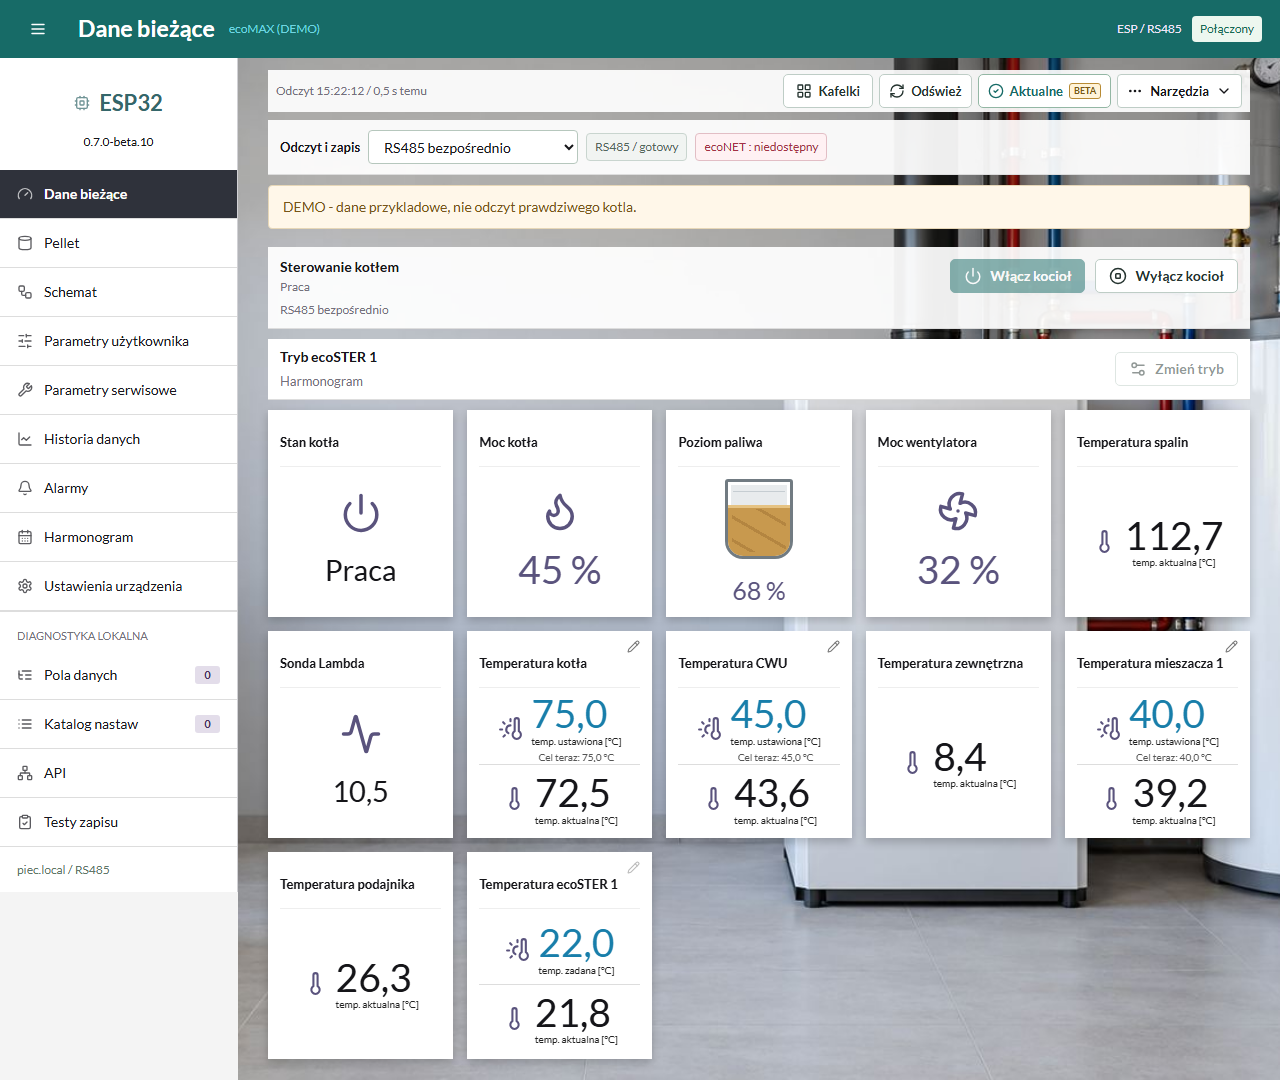
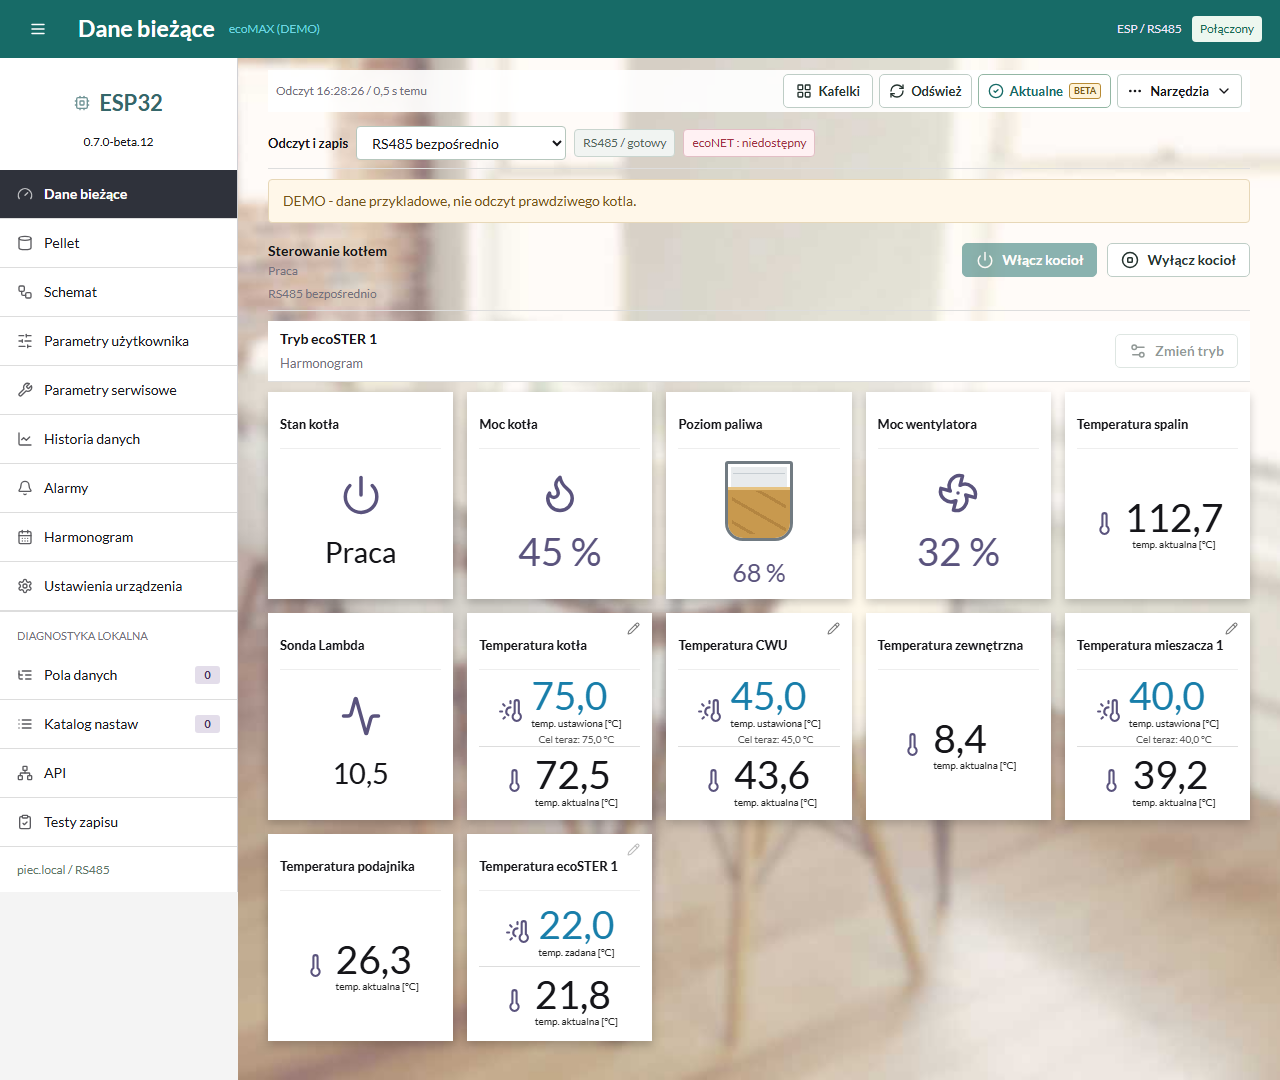
Restore previous schematic and background without redesign in beta.12

diff --git a/src/panel_web/heating_schema.js b/src/panel_web/heating_schema.js
@@ -1,36 +1,50 @@
 'use strict';
 (function(root){
- const value=(v,unit='\u00b0C')=>typeof v==='number'&&Number.isFinite(v)?v.toLocaleString('pl-PL',{minimumFractionDigits:unit==='%'?0:1,maximumFractionDigits:1})+' '+unit:'---';
- function readings(data,fresh){
-  const c=fresh?data.curr||{}:{};
-  return {outside:value(c.tempExternalSensor),room:value(c.ecoSterTemp1),roomSet:value(c.ecoSterSetTemp1),
-   co:value(c.tempCO),coSet:value(c.tempCOSet),water:value(c.tempCWU),waterSet:value(c.tempCWUSet),
-   mixer:value(c.mixerTemp1),mixerSet:value(c.mixerSetTemp1),exhaust:value(c.tempFlueGas),back:value(c.tempBack),
-   power:typeof c.boilerPowerKW==='number'?value(c.boilerPowerKW,'kW'):value(c.boilerPower,'%'),fuel:value(typeof c.fuelLevel==='number'&&c.fuelLevel>=0&&c.fuelLevel<=100?c.fuelLevel:null,'%'),fan:value(c.fanPower,'%'),
-   mode:fresh?EcoSettings.boilerModeLabel(c.mode,data.write_transport):'Brak odczytu'};
- }
+ const value=(v,unit='\u00b0C')=>typeof v==='number'&&Number.isFinite(v)?v.toLocaleString('pl-PL',{minimumFractionDigits:unit==='%'?0:1,maximumFractionDigits:1})+(unit?' '+unit:''):'---';
  if(typeof module==='object'&&module.exports)module.exports={value};
  if(typeof document==='undefined')return;
  let loading=null,svg=null,latest=null,retryAfter=0;
  function update(){
   if(!svg||!latest)return;
-  const {data,fresh}=latest,c=fresh?data.curr||{}:{},values=readings(data,fresh);
-  for(const node of svg.querySelectorAll('[data-value]'))node.textContent=values[node.dataset.value]||'---';
-  for(const node of svg.querySelectorAll('[data-pump]')){const active=c[node.dataset.pump];node.dataset.state=typeof active==='boolean'?(active?'on':'off'):'unknown';node.querySelector('[data-pump-label]').textContent=typeof active==='boolean'?(active?'Praca':'Post\u00f3j'):'---';}
-  document.getElementById('schema-readings').textContent=Number(data.system?.schemaID)===23?'Kocio\u0142, obieg mieszacza 1 i zasobnik CWU. Temperatury zadane to aktualne cele sterownika.':'Widok og\u00f3lny: kocio\u0142, mieszacz 1 i CWU. Nie potwierdza rzeczywistych po\u0142\u0105cze\u0144 ani wyposa\u017cenia tej instalacji.';
+  const {data,fresh}=latest,c=fresh?data.curr||{}:{};
+  const set=(id,text)=>{const node=svg.querySelector('#lbSchema_'+id);if(node)node.textContent=text;};
+  set('model',data.system?.controllerID||'---');
+  set('mode',fresh?EcoSettings.boilerModeLabel(c.mode,data.write_transport):'---');
+  for(const [id,key]of [['tempExternalSensor','tempExternalSensor'],['ecoSterTemp1','ecoSterTemp1'],['tempFlueGas','tempFlueGas'],['tempCO','tempCO'],['tempCOSet','tempCOSet'],['tempBack','tempBack'],['tempCWU','tempCWU'],['tempCWUSet','tempCWUSet'],['mixerTempA','mixerTemp1'],['mixerTempASet','mixerSetTemp1']])set(id,value(c[key]));
+  for(const [id,key,unit]of [['fuelLevel','fuelLevel','%'],['fuelStream','fuelStream','kg/h'],['fanPower','fanPower','%'],['tempOpticalSensor','tempOpticalSensor','']])set(id,value(c[key],unit));
+  set('boilerPowerKW',typeof c.boilerPowerKW==='number'?value(c.boilerPowerKW,'kW'):value(c.boilerPower,'%'));
+  set('mixerALabel','MIX1');
+  for(const [id,key]of [['schema_pumpMixerA','mixerPumpWorks1'],['schema_pumpCWU','pumpCWUWorks']]){
+   const node=svg.querySelector('#'+id);if(!node)continue;
+   const active=c[key],color=typeof active==='boolean'?(active?'#28864a':'#333333'):'#999999';
+   node.dataset.state=typeof active==='boolean'?(active?'on':'off'):'unknown';
+   for(const path of node.querySelectorAll('path,circle,polygon')){
+    if(path.getAttribute('stroke')&&path.getAttribute('stroke')!=='none')path.setAttribute('stroke',color);
+    if(path.getAttribute('fill')&&path.getAttribute('fill')!=='none')path.setAttribute('fill',color);
+   }
+   node.setAttribute('aria-label',typeof active==='boolean'?(active?'ON':'OFF'):'Brak odczytu');
+  }
+  const container=document.getElementById('schema-readings');container.replaceChildren();
+  for(const [name,key]of [['Kocio\u0142','tempCO'],['CWU','tempCWU'],['Mieszacz 1','mixerTemp1'],['Pomieszczenie','ecoSterTemp1']]){
+   const box=document.createElement('div'),label=document.createElement('span'),reading=document.createElement('strong');
+   label.textContent=name;reading.textContent=value(c[key]);box.append(label,reading);container.append(box);
+  }
  }
  async function render(data,fresh){
-  latest={data,fresh};const host=document.getElementById('schema-graphic');
-  host.setAttribute('role','group');host.hidden=false;
+  latest={data,fresh};const host=document.getElementById('schema-graphic'),readings=document.getElementById('schema-readings');
+  host.setAttribute('role','group');
+  if(Number(data.system?.schemaID)!==23){host.hidden=true;readings.textContent='Brak schematu dla tej konfiguracji';return;}
+  host.hidden=false;
   if(svg){update();return;}
   if(loading||Date.now()<retryAfter)return;
   host.textContent='Wczytywanie schematu...';
   loading=(async()=>{
    try{
-    const response=await fetch('/assets/heating-schema.svg',{cache:'force-cache'});if(!response.ok)throw new Error('HTTP '+response.status);
+    const response=await fetch('/assets/schema.svg',{cache:'force-cache'});if(!response.ok)throw new Error('HTTP '+response.status);
     const parsed=new DOMParser().parseFromString(await response.text(),'image/svg+xml');
     if(parsed.querySelector('parsererror')||parsed.documentElement.localName!=='svg')throw new Error('Niepoprawna grafika');
-    svg=document.importNode(parsed.documentElement,true);host.replaceChildren(svg);update();
+    svg=document.importNode(parsed.documentElement,true);host.replaceChildren(svg);
+    if(Number(latest.data.system?.schemaID)===23)update();
    }catch(error){retryAfter=Date.now()+30000;host.textContent='Nie uda\u0142o si\u0119 wczyta\u0107 schematu: '+error.message;}
    finally{loading=null;}
   })();

diff --git a/src/panel_web/index.html b/src/panel_web/index.html
@@ -3,7 +3,7 @@
 <body>
 <link rel="stylesheet" href="/transport.css"><link rel="stylesheet" href="/compact.css">
 <header><button id="nav-toggle" class="icon" title="Menu" aria-label="Menu" aria-expanded="true" aria-controls="main-nav"><i data-lucide="menu"></i></button><div class="brand"><h1 id="screen-name">Dane bie&#380;&#261;ce</h1><span id="model">Sterownik</span></div><div class="connection"><span id="local-mark" class="local-mark">ESP / RS485</span><span id="connection" class="status neutral">Niepo&#322;&#261;czony</span></div></header>
-<div class="layout"><nav id="main-nav" aria-label="Widoki"><div class="nav-brand"><div id="nav-econet" class="esp-brand" aria-label="ecoNET"><i data-lucide="router"></i><strong>ecoNET</strong></div><div id="nav-esp" class="esp-brand" hidden aria-label="ESP32"><i data-lucide="cpu"></i><strong>ESP32</strong></div><span id="version">0.7.0-beta.11</span></div>
+<div class="layout"><nav id="main-nav" aria-label="Widoki"><div class="nav-brand"><div id="nav-econet" class="esp-brand" aria-label="ecoNET"><i data-lucide="router"></i><strong>ecoNET</strong></div><div id="nav-esp" class="esp-brand" hidden aria-label="ESP32"><i data-lucide="cpu"></i><strong>ESP32</strong></div><span id="version">0.7.0-beta.12</span></div>
 <button class="active" data-view="live"><i data-lucide="gauge"></i><span>Dane bie&#380;&#261;ce</span></button><button data-view="pellet"><i data-lucide="cylinder"></i><span>Pellet</span></button><button data-view="schema"><i data-lucide="workflow"></i><span>Schemat</span></button><button data-view="user"><i data-lucide="sliders-horizontal"></i><span>Parametry u&#380;ytkownika</span></button><button data-view="service"><i data-lucide="wrench"></i><span>Parametry serwisowe</span></button><button data-view="history"><i data-lucide="chart-line"></i><span>Historia danych</span></button><button data-view="alarms"><i data-lucide="bell"></i><span>Alarmy</span><b id="alarm-count" class="alarm-count" role="status" hidden></b></button><button data-view="schedule"><i data-lucide="calendar-days"></i><span>Harmonogram</span></button><button data-view="settings"><i data-lucide="settings"></i><span>Ustawienia urz&#261;dzenia</span></button><div class="nav-tools">Diagnostyka lokalna</div><button data-view="data"><i data-lucide="list-tree"></i><span>Pola danych</span><b id="count-fields">0</b></button><button data-view="menu"><i data-lucide="list"></i><span>Katalog nastaw</span><b id="count-menu">0</b></button><button data-view="api"><i data-lucide="network"></i><span>API</span></button><button data-view="tests"><i data-lucide="clipboard-check"></i><span>Testy zapisu</span></button><div class="rail-foot"><div id="address">piec.local</div></div></nav>
 <main>
 

diff --git a/docs/GALERIA.html b/docs/GALERIA.html
@@ -6,7 +6,7 @@
 <style>
 *{box-sizing:border-box}body{margin:0;background:#fff;color:#243138;font:16px/1.65 system-ui,"Segoe UI",Arial,sans-serif;letter-spacing:0}header{border-bottom:1px solid #d7e1e3;padding:16px 24px}header nav{max-width:960px;margin:auto;display:flex;flex-wrap:wrap;gap:20px}main{max-width:960px;margin:auto;padding:24px}h1{font-size:30px;line-height:1.25}h2{font-size:23px;line-height:1.35;margin-top:40px;padding-top:18px;border-top:1px solid #dce6e7}p,li{overflow-wrap:anywhere}a{color:#176a85}img{display:block;max-width:100%;height:auto;margin:22px auto;border:1px solid #d8e1e3;border-radius:4px}table{width:100%;border-collapse:collapse;margin:20px 0;font-size:14px}th,td{border:1px solid #ccd9dc;padding:10px;text-align:left;vertical-align:top;overflow-wrap:anywhere}th{background:#eef6f4}pre{white-space:pre-wrap;overflow-wrap:anywhere}em{font-size:14px;color:#546970}strong{font-weight:700}@media(max-width:600px){main{padding:18px}header{padding:16px 18px}h1{font-size:26px}h2{font-size:21px}th,td{padding:7px;font-size:13px}}@media print{header{display:none}main{max-width:none;padding:0}h2{break-after:avoid}img{max-height:18cm;object-fit:contain}tr{break-inside:avoid}a{color:inherit}body{font-size:11pt}}
 </style></head><body><header><nav><a href="https://marexcodemaster.github.io/ecomax-esp32-gateway/">Instalator USB</a><a href="https://github.com/MareXcodemaster/ecomax-esp32-gateway/releases">Pliki do pobrania</a></nav></header><main><h1>Jak Wyglada Panel ecoMAX Wi-Fi</h1>
-<p>Zrzuty rzeczywistego interfejsu wersji <strong>0.7.0-beta.10</strong>, uruchomionego
+<p>Zrzuty rzeczywistego interfejsu wersji <strong>0.7.0-beta.12</strong>, uruchomionego
 lokalnie z <strong>danymi przykladowymi (DEMO)</strong>. Nie jest to potwierdzenie
 obslugi kazdej nastawy w dowolnym kotle.
 Kliknij zdjecie, aby je powiekszyc w GitHubie.</p>

diff --git a/docs/SZYBKI_START.html b/docs/SZYBKI_START.html
@@ -6,7 +6,7 @@
 <style>
 *{box-sizing:border-box}body{margin:0;background:#fff;color:#243138;font:16px/1.65 system-ui,"Segoe UI",Arial,sans-serif;letter-spacing:0}header{border-bottom:1px solid #d7e1e3;padding:16px 24px}header nav{max-width:960px;margin:auto;display:flex;flex-wrap:wrap;gap:20px}main{max-width:960px;margin:auto;padding:24px}h1{font-size:30px;line-height:1.25}h2{font-size:23px;line-height:1.35;margin-top:40px;padding-top:18px;border-top:1px solid #dce6e7}p,li{overflow-wrap:anywhere}a{color:#176a85}img{display:block;max-width:100%;height:auto;margin:22px auto;border:1px solid #d8e1e3;border-radius:4px}table{width:100%;border-collapse:collapse;margin:20px 0;font-size:14px}th,td{border:1px solid #ccd9dc;padding:10px;text-align:left;vertical-align:top;overflow-wrap:anywhere}th{background:#eef6f4}pre{white-space:pre-wrap;overflow-wrap:anywhere}em{font-size:14px;color:#546970}strong{font-weight:700}@media(max-width:600px){main{padding:18px}header{padding:16px 18px}h1{font-size:26px}h2{font-size:21px}th,td{padding:7px;font-size:13px}}@media print{header{display:none}main{max-width:none;padding:0}h2{break-after:avoid}img{max-height:18cm;object-fit:contain}tr{break-inside:avoid}a{color:inherit}body{font-size:11pt}}
 </style></head><body><header><nav><a href="https://marexcodemaster.github.io/ecomax-esp32-gateway/">Instalator USB</a><a href="https://github.com/MareXcodemaster/ecomax-esp32-gateway/releases">Pliki do pobrania</a></nav></header><main><h1>ecoMAX Wi-Fi: Prosta Instrukcja Instalacji</h1>
-<p><strong>Wersja programu 0.7.0-beta.11. Instrukcja 6, 17.10.2026.</strong>
+<p><strong>Wersja programu 0.7.0-beta.12. Instrukcja 7, 17.10.2026.</strong>
 Nie musisz programowac ani wpisywac komend. Komputer jest potrzebny
 tylko przy pierwszym wgraniu; pozniej korzystasz z telefonu.</p>
 <h2>1. Sprawdz, Czy To Zestaw Dla Ciebie</h2>

diff --git a/src/panel_web/schema.css b/src/panel_web/schema.css
@@ -1,10 +1,7 @@
-.schema-graphic{overflow-x:auto;background:#fff;scrollbar-gutter:stable}
-.schema-graphic>svg{display:block;width:100%;min-width:720px;height:auto;aspect-ratio:1000/680;min-height:0}
-#schema-readings{display:block;font-size:13px;color:#50605c;line-height:1.6;padding:14px 0}
+.schema-graphic{overflow-x:auto;scrollbar-gutter:stable}
+.schema-graphic>svg{display:block;width:100%;min-width:720px;height:auto;aspect-ratio:841.66/437.104;min-height:0}
+.schema-graphic[hidden]{display:none}
 #wifi-dialog{width:480px}#wifi-title{font-size:19px}#wifi-select{width:100%}
 #wifi-form>.check{margin:12px 0}#wifi-form>p{font-size:13px;line-height:1.6;overflow-wrap:anywhere}
 #wifi-result{min-height:22px}#wifi-form [hidden]{display:none}
-body[data-view=live] main,body[data-view=schema] main{background:#f1f4f2 url('/assets/boiler-room.jpg') center/cover fixed;min-height:calc(100vh - 58px)}
-body[data-view=schema] .page-toolbar,body[data-view=schema] #schema-readings{background:#ffffffed;padding:10px 12px}
-body[data-view=live] .transport-toolbar,body[data-view=schema] .transport-toolbar,body[data-view=live] .boiler-controls{background:#ffffffed;padding:10px 12px}
-body[data-view=live] footer,body[data-view=schema] footer{color:#30433e;background:#ffffffed;padding:10px 12px;margin-top:15px}
+body[data-view=live] main{background:url('/assets/devicebg.jpg') center top/cover fixed no-repeat;min-height:calc(100vh - 58px)}

diff --git a/docs/START_PL.html b/docs/START_PL.html
@@ -8,7 +8,7 @@
 </style></head><body><header><nav><a href="https://marexcodemaster.github.io/ecomax-esp32-gateway/">Instalator USB</a><a href="https://github.com/MareXcodemaster/ecomax-esp32-gateway/releases">Pliki do pobrania</a></nav></header><main><h1>ecoMAX Wi-Fi - sterowanie kotłem z telefonu</h1>
 <h2>Instrukcja krok po kroku</h2>
 <p><strong>Pierwszy raz z ESP? Zacznij od <a href="SZYBKI_START.html">prostej instrukcji w 7 krokach</a>.</strong></p>
-<p><strong>Oprogramowanie: 0.7.0-beta.11. Instrukcja: wydanie 10, 17.10.2026.</strong></p>
+<p><strong>Oprogramowanie: 0.7.0-beta.12. Instrukcja: wydanie 12, 17.10.2026.</strong></p>
 <p>Projekt pozwala obsługiwać zgodny regulator kotła z telefonu, tabletu lub
 komputera w domowej sieci. ESP32 odbiera dane i udostępnia własny panel.
 Komputer i kabel USB są potrzebne do pierwszego wgrania. Później panel

diff --git a/tests/test_restored_assets.py b/tests/test_restored_assets.py
@@ -1,0 +1,39 @@
+import hashlib
+from pathlib import Path
+import unittest
+import xml.etree.ElementTree as ET
+
+ROOT = Path(__file__).resolve().parent.parent
+ASSETS = ROOT / 'src/panel_web/assets'
+
+
+class RestoredAssets(unittest.TestCase):
+    def test_exact_original_files(self):
+        expected = {
[2 lines of base64/hex data omitted]
+        }
+        for name, digest in expected.items():
+            self.assertEqual(hashlib.sha256((ASSETS / name).read_bytes()).hexdigest(), digest)
+
+    def test_schema_is_inert_and_contains_no_live_values(self):
+        root = ET.parse(ASSETS / 'schema.svg').getroot()
+        self.assertEqual(root.get('viewBox'), '0 0 841.66 437.104')
+        readings = []
+        for node in root.iter():
+            tag = node.tag.rsplit('}', 1)[-1]
+            self.assertNotIn(tag, ('script', 'foreignObject', 'image'))
+            for name, value in node.attrib.items():
+                attr = name.rsplit('}', 1)[-1]
+                self.assertFalse(attr.lower().startswith('on'))
+                if attr == 'href':
+                    self.assertTrue(value.startswith('#'))
+            id_ = node.get('id', '')
+            if id_.startswith('lbSchema_') and not id_.endswith('Label'):
+                readings.append(id_)
+                self.assertEqual(''.join(node.itertext()).strip(), '---')
+        self.assertGreaterEqual(len(readings), 17)
+
+
+if __name__ == '__main__':
+    unittest.main()

diff --git a/src/board.hpp b/src/board.hpp
@@ -8,7 +8,7 @@ constexpr gpio_num_t tx = GPIO_NUM_17;
 constexpr gpio_num_t de = GPIO_NUM_21;
 constexpr uart_port_t uart = UART_NUM_1;
 constexpr unsigned baud = 115200;
-constexpr const char *version = "0.7.0-beta.11";
+constexpr const char *version = "0.7.0-beta.12";
 constexpr const char *release_version = version;
 constexpr const char *hostname = "piec";
 constexpr bool github_ota = true;

diff --git a/THIRD_PARTY.md b/THIRD_PARTY.md
@@ -78,15 +78,13 @@ separately from their official packages. They are tools, not linked into
 the firmware. Their source/licensing information is available through
 https://pypi.org/project/platformio/ and https://pypi.org/project/esptool/.
 
-Manufacturer logos, photo/bitmap sprites, font and hydraulic SVG obtained
-from a private ecoNET installation are not distributed. Brand names are
-used only to describe compatibility, not affiliation or endorsement.
+The restored src/panel_web/assets/schema.svg and devicebg.jpg are
+third-party visual assets from the user's supplied earlier panel project.
+They are not original artwork by this project's author and are excluded
+from the project's MIT license. Their original owners retain their rights;
+no additional redistribution license is granted here. No manufacturer
+logo, account identifier, network configuration or recorded measurement
+is included in these assets. The SVG contains empty live-reading labels
+which the panel fills from the current controller data.
 
-The hydraulic drawing src/panel_web/assets/heating-schema.svg is original
-project artwork, not a manufacturer's installation plan. The photographic
-background boiler-room.jpg is AI-generated original artwork, not a photo
-of a supported product or a user's installation. It was generated in
-text-to-image mode: bright neutral utility room, generic unbranded pellet
-boiler and hot water cylinder on the right, red/blue pipes, no logos or
-text, landscape composition. The optimized JPEG is bundled locally; no
-external image service is contacted by the panel.
+Brand names describe compatibility, not affiliation or endorsement.

diff --git a/CHANGELOG.md b/CHANGELOG.md
@@ -1,5 +1,13 @@
 # Changelog
 
+## 0.7.0-beta.12 - 2026-10-17
+
+- Przywrocono dokladne poprzednie pliki schematu i jasnego tla, zamiast nowych grafik z beta.10.
+- Schemat zachowuje pionowa kolumne wskaznikow po lewej, poprzedni kociol, grzejnik, mieszacz i CWU.
+- Bez zmian geometrii i kolorow grafiki. Aktualne pomiary i stany pomp nadal sa odswiezane, stare odczyty czyszczone.
+- Zachowano poprawki wyszukiwania aktualizacji z beta.11, Narzedzia i zmiane Wi-Fi.
+- Testy kontroluja sumy SHA-256 obu przywroconych plikow, aby nie zastapic ich ponownie innymi grafikami.
+
 ## 0.7.0-beta.11 - 2026-10-17
 
 - Aktualizator przeglada kolejne strony wydan GitHuba, zamiast tylko pierwszych pieciu pozycji.

diff --git a/README.md b/README.md
@@ -7,7 +7,7 @@ Bez konta w chmurze do codziennej pracy. Interfejs i instrukcje po polsku.
 **[Prosta instalacja w 7 krokach](docs/SZYBKI_START.md)** ·
 **[Pobierz firmware i instrukcje](https://github.com/MareXcodemaster/ecomax-esp32-gateway/releases)**
 
-**Wersja 0.7.0-beta.11. Projekt niezalezny, nieoficjalny. Nie jest produktem
+**Wersja 0.7.0-beta.12. Projekt niezalezny, nieoficjalny. Nie jest produktem
 PLUM ani Waveshare. Nie jest uniwersalnym firmware dla wszystkich
 kotlow.** Nie omija zabezpieczen ani nie zastepuje regulatora kotla.
 

diff --git a/docs/START_PL.md b/docs/START_PL.md
@@ -4,7 +4,7 @@
 
 **Pierwszy raz z ESP? Zacznij od [prostej instrukcji w 7 krokach](SZYBKI_START.md).**
 
-**Oprogramowanie: 0.7.0-beta.11. Instrukcja: wydanie 10, 17.10.2026.**
+**Oprogramowanie: 0.7.0-beta.12. Instrukcja: wydanie 12, 17.10.2026.**
 
 Projekt pozwala obsługiwać zgodny regulator kotła z telefonu, tabletu lub
 komputera w domowej sieci. ESP32 odbiera dane i udostępnia własny panel.
